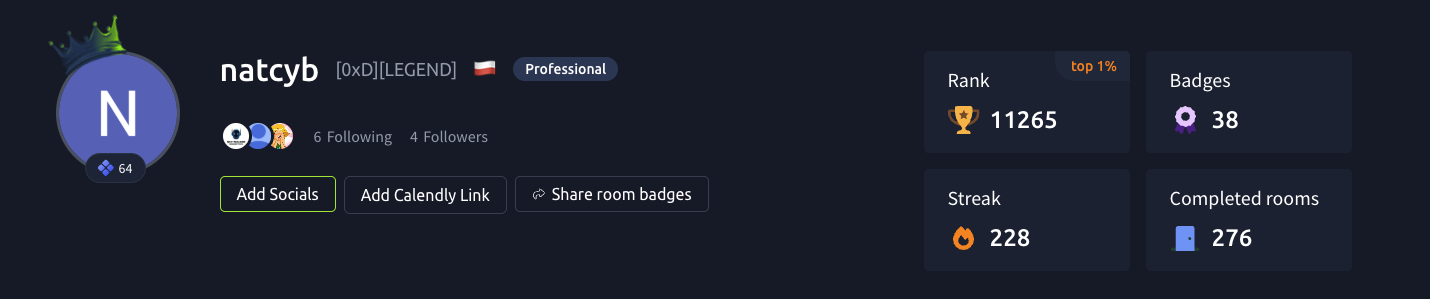
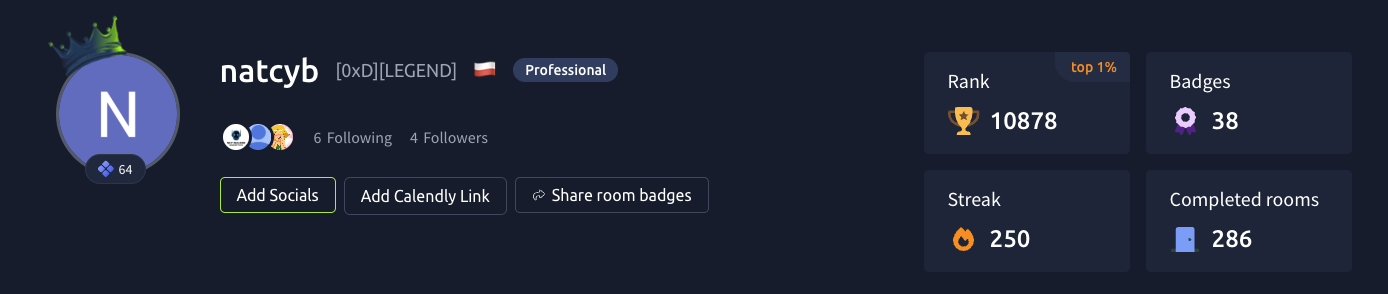
Update TryHackMe streak and completed paths

diff --git a/certifications/README.md b/certifications/README.md
@@ -4,23 +4,72 @@
 | Certification                                 | Issuer                | Completed |
 | --------------------------------------------- | --------------------- | --------- |
 | AWS Certified Cloud Practitioner              | AWS                   | Aug 2026  |
-| CompTIA Security+ (SY0-701)                   | CompTIA               | Mar 2026  |
+| CompTIA Security+                             | CompTIA               | Mar 2026  |
 | Google Cybersecurity Professional Certificate | Google (via Coursera) | Feb 2026  |
 
 ## TryHackMe Learning Paths
 
-**TryHackMe profile:** top 1% rank, 276 rooms completed, 228-day streak (yes, I'm aware of what that says about my evenings). Last updated: 10-08-2026 - but believe me, I'm still going. 
+**TryHackMe profile:** top 1% rank, 286 rooms completed, 250-day streak (yes, I'm aware of what that says about my evenings). Last updated: 01.09.2026 - but believe me, I'm still going. 
 
 ![TryHackMe profile stats](images/thm_banner.png)
 
 
-Each path is a structured sequence of dozens of guided rooms building toward a specific skill area. ~78 hours combined, listed separately so it's clear which is which.
+Each path is a structured sequence of dozens of guided rooms building toward a specific skill area. ~113 hours combined across the five paths below - that's paths only, actual time on TryHackMe is higher once you count stand-alone modules and rooms outside any path.
 
-| Path                  | Completed | Duration  | Credential ID    |
-| --------------------- | --------- | --------- | ---------------- |
-| DevSecOps             | Jul 2026  | 26h 45m   | `THM-XBWXVZGFLS` |
-| Jr Penetration Tester | Apr 2026  | 30h 40m   | `THM-SHEAXOGIKH` |
-| Web Fundamentals      | Apr 2026  | 20h 50m   | `THM-DRGZIT27QO` |
+### Defending AWS
+
+Learn how to secure the most common AWS services.
+
+- Manage identities, access, and policies
+- Harden the network layer
+- Secure compute
+- Ensure data integrity
+
+Completed Sep 2026 · 15h 30m · `THM-OQRWQQU9FI`
+
+### DevSecOps
+
+Acquire specialization in DevSecOps or broaden your understanding of product security.
+
+- Hands-on CI/CD Pipeline Security
+- Introduction to Securing IaC
+- Containerisation Security
+- Applications of DevSecOps Frameworks
+
+Completed Jul 2026 · 26h 45m · `THM-XBWXVZGFLS`
+
+### Jr Penetration Tester
+
+Learn the essential skills to break into penetration testing.
+
+- Pentesting fundamentals, methodologies and tactics
+- Full lifecycle from recon to reporting
+- Hands-on web and network hacking
+- Learn core tools used in cybersecurity
+
+Completed Apr 2026 · 30h 40m · `THM-SHEAXOGIKH`
+
+### Web Fundamentals
+
+A pathway to web application security.
+
+- Understand web fundamentals
+- Major vulnerabilities explained
+- Learn industry-used tools
+- Web application assessments
+
+Completed Apr 2026 · 20h 50m · `THM-DRGZIT27QO`
+
+### Pre Security
+
+Your first step into cyber. Learn how tech works, then think like an attacker and defender.
+
+- Explore how computers really work
+- Write your first lines of code
+- Step into networking and web basics
+- Think like a hacker or defender
+
+Completed earlier, certificate generated Sep 2026 · 19h 10m · `THM-9VCPD2HDS2`
 
 
 ## Certificate & path images
@@ -30,8 +79,11 @@ Each path is a structured sequence of dozens of guided rooms building toward a s
 ![CompTIA Security+ certificate](images/comptia_sec.png)
 ![Google Cybersecurity Professional Certificate](images/google_cyber.png)
 ![AWS Certified Cloud Practitioner certificate](images/aws_cloud_practitioner.png)
+![TryHackMe Defending AWS path certificate](images/thm_defending_aws.png)
 ![TryHackMe DevSecOps path certificate](images/thm_DevSecOps.png)
 ![TryHackMe Jr Penetration Tester path certificate](images/thm_jr_pen.png)
 ![TryHackMe Web Fundamentals path certificate](images/thm_web.png)
+![TryHackMe Pre Security path certificate](images/thm_pre_security.png)
+
 
 

diff --git a/README.md b/README.md
@@ -8,7 +8,7 @@ My background is QA - since then I've been leaning hard into infrastructure, sec
 
 ## Certifications
 
-CompTIA Security+, AWS Certified Cloud Practitioner and the Google Cybersecurity Professional Certificate. I've also been living on TryHackMe: top 1% rank, 276 rooms completed, 228-day streak. Full breakdown, dates, and verification details in [certifications](certifications/README.md).
+CompTIA Security+, AWS Certified Cloud Practitioner and the Google Cybersecurity Professional Certificate. I've also been living on TryHackMe: top 1% rank, 286 rooms completed, 250-day streak. Full breakdown, dates, and verification details in [certifications](certifications/README.md).
 
 ---
 
